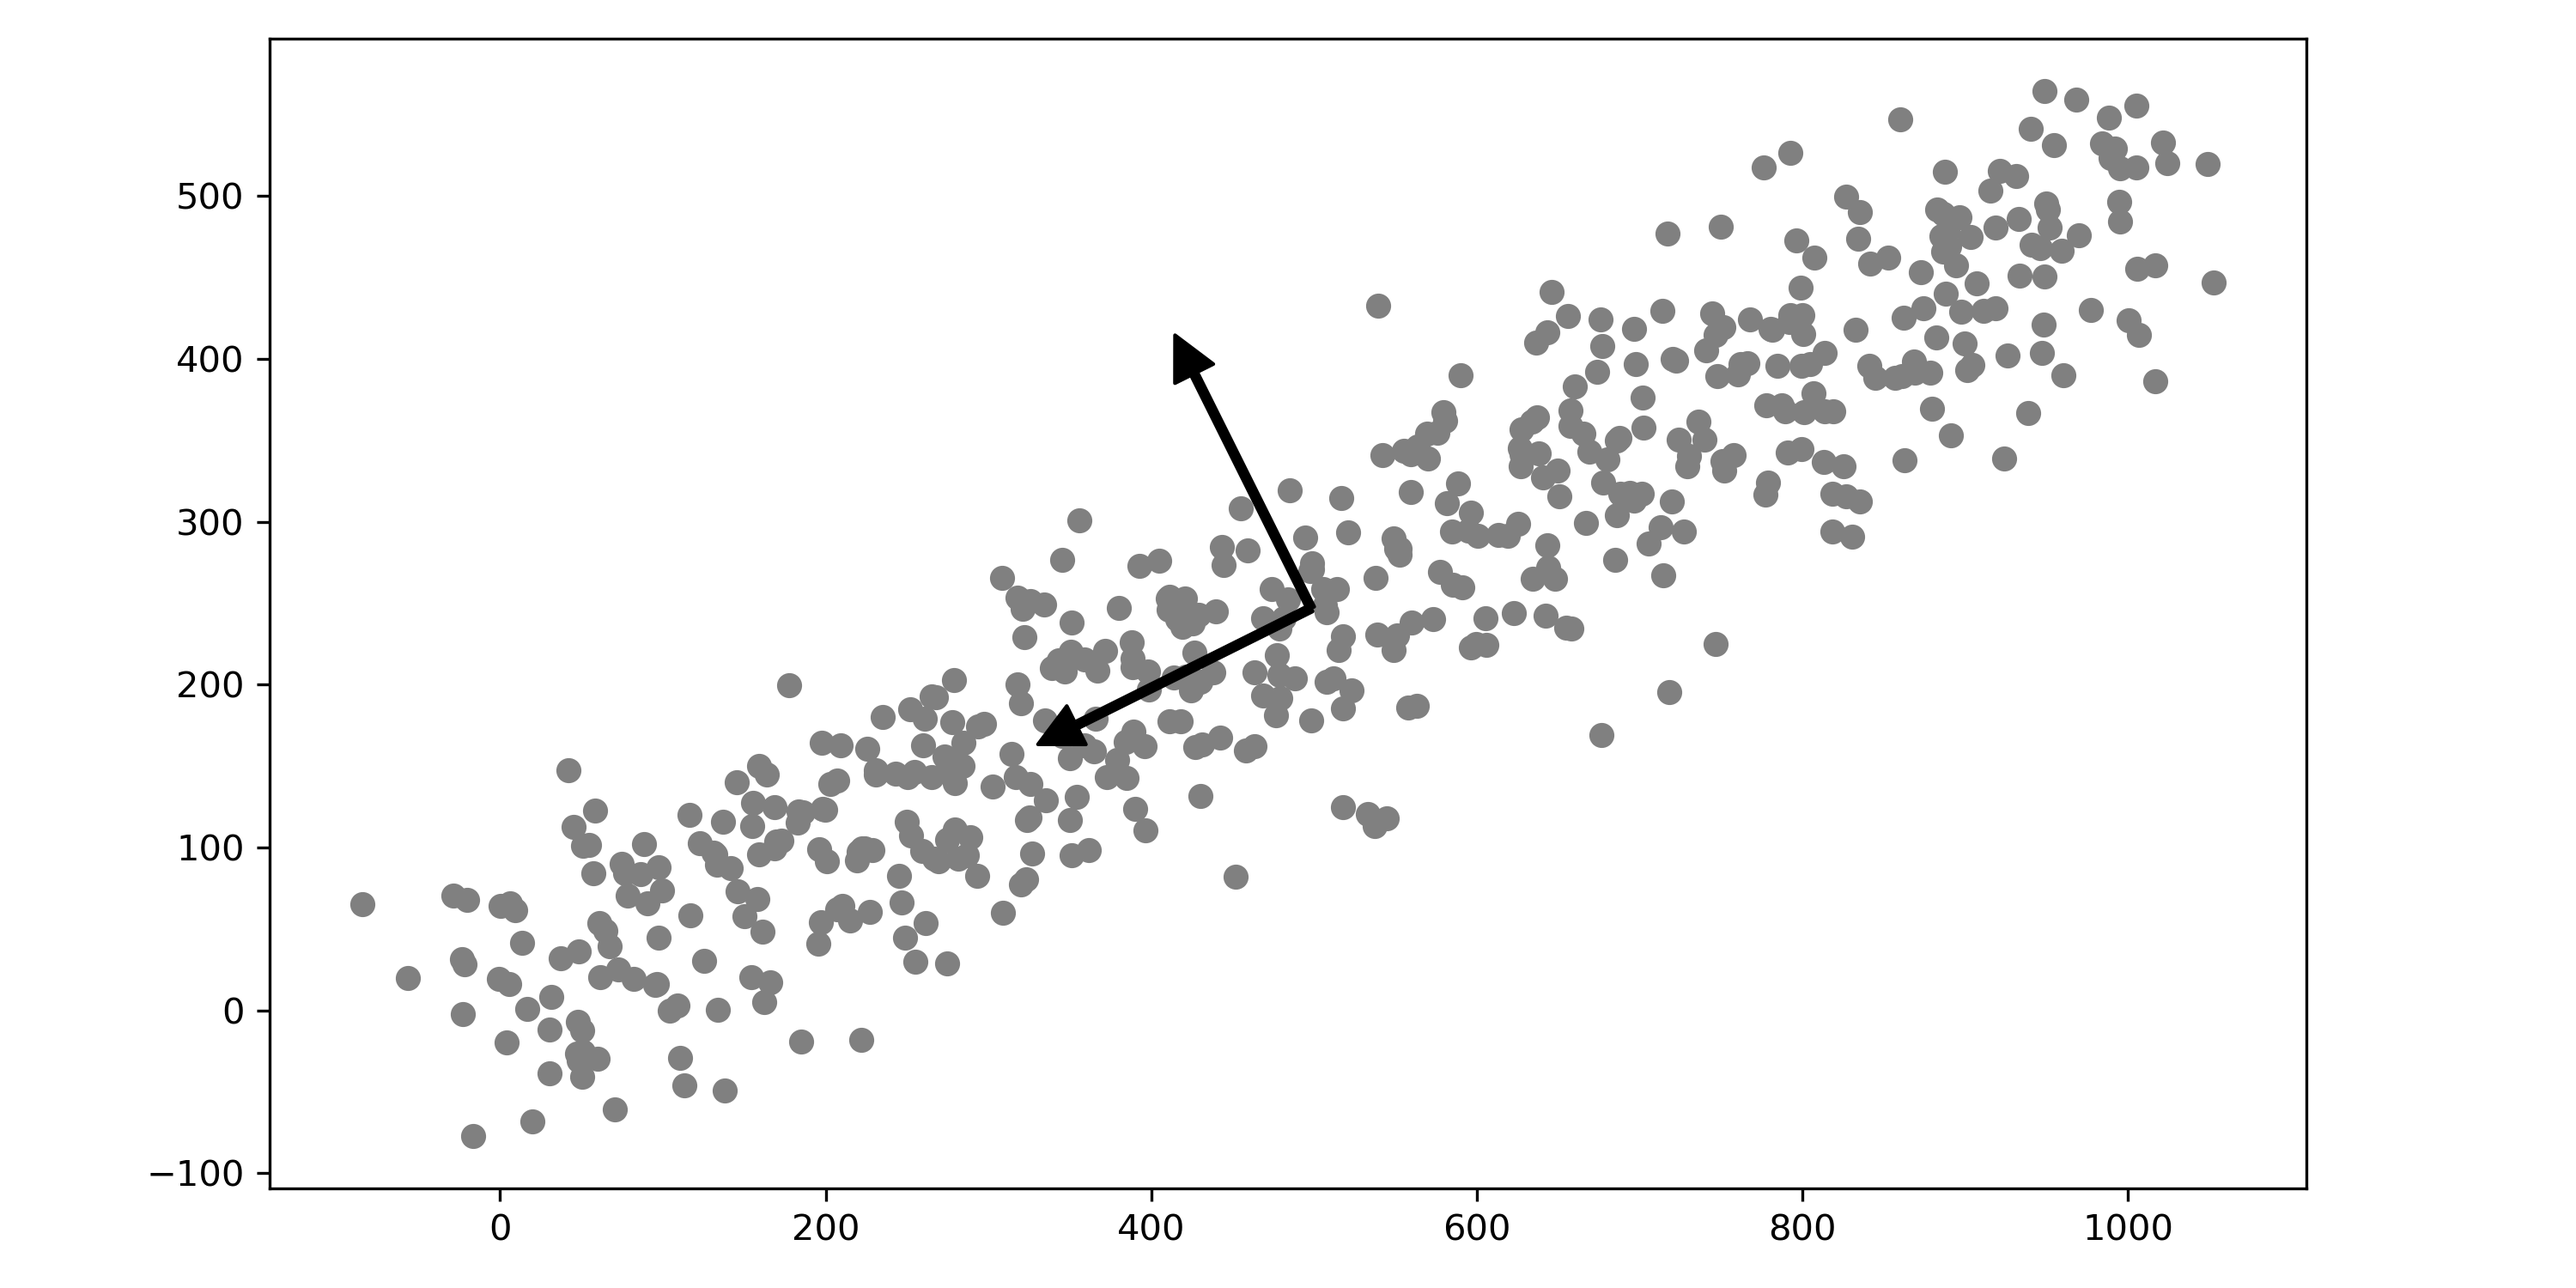
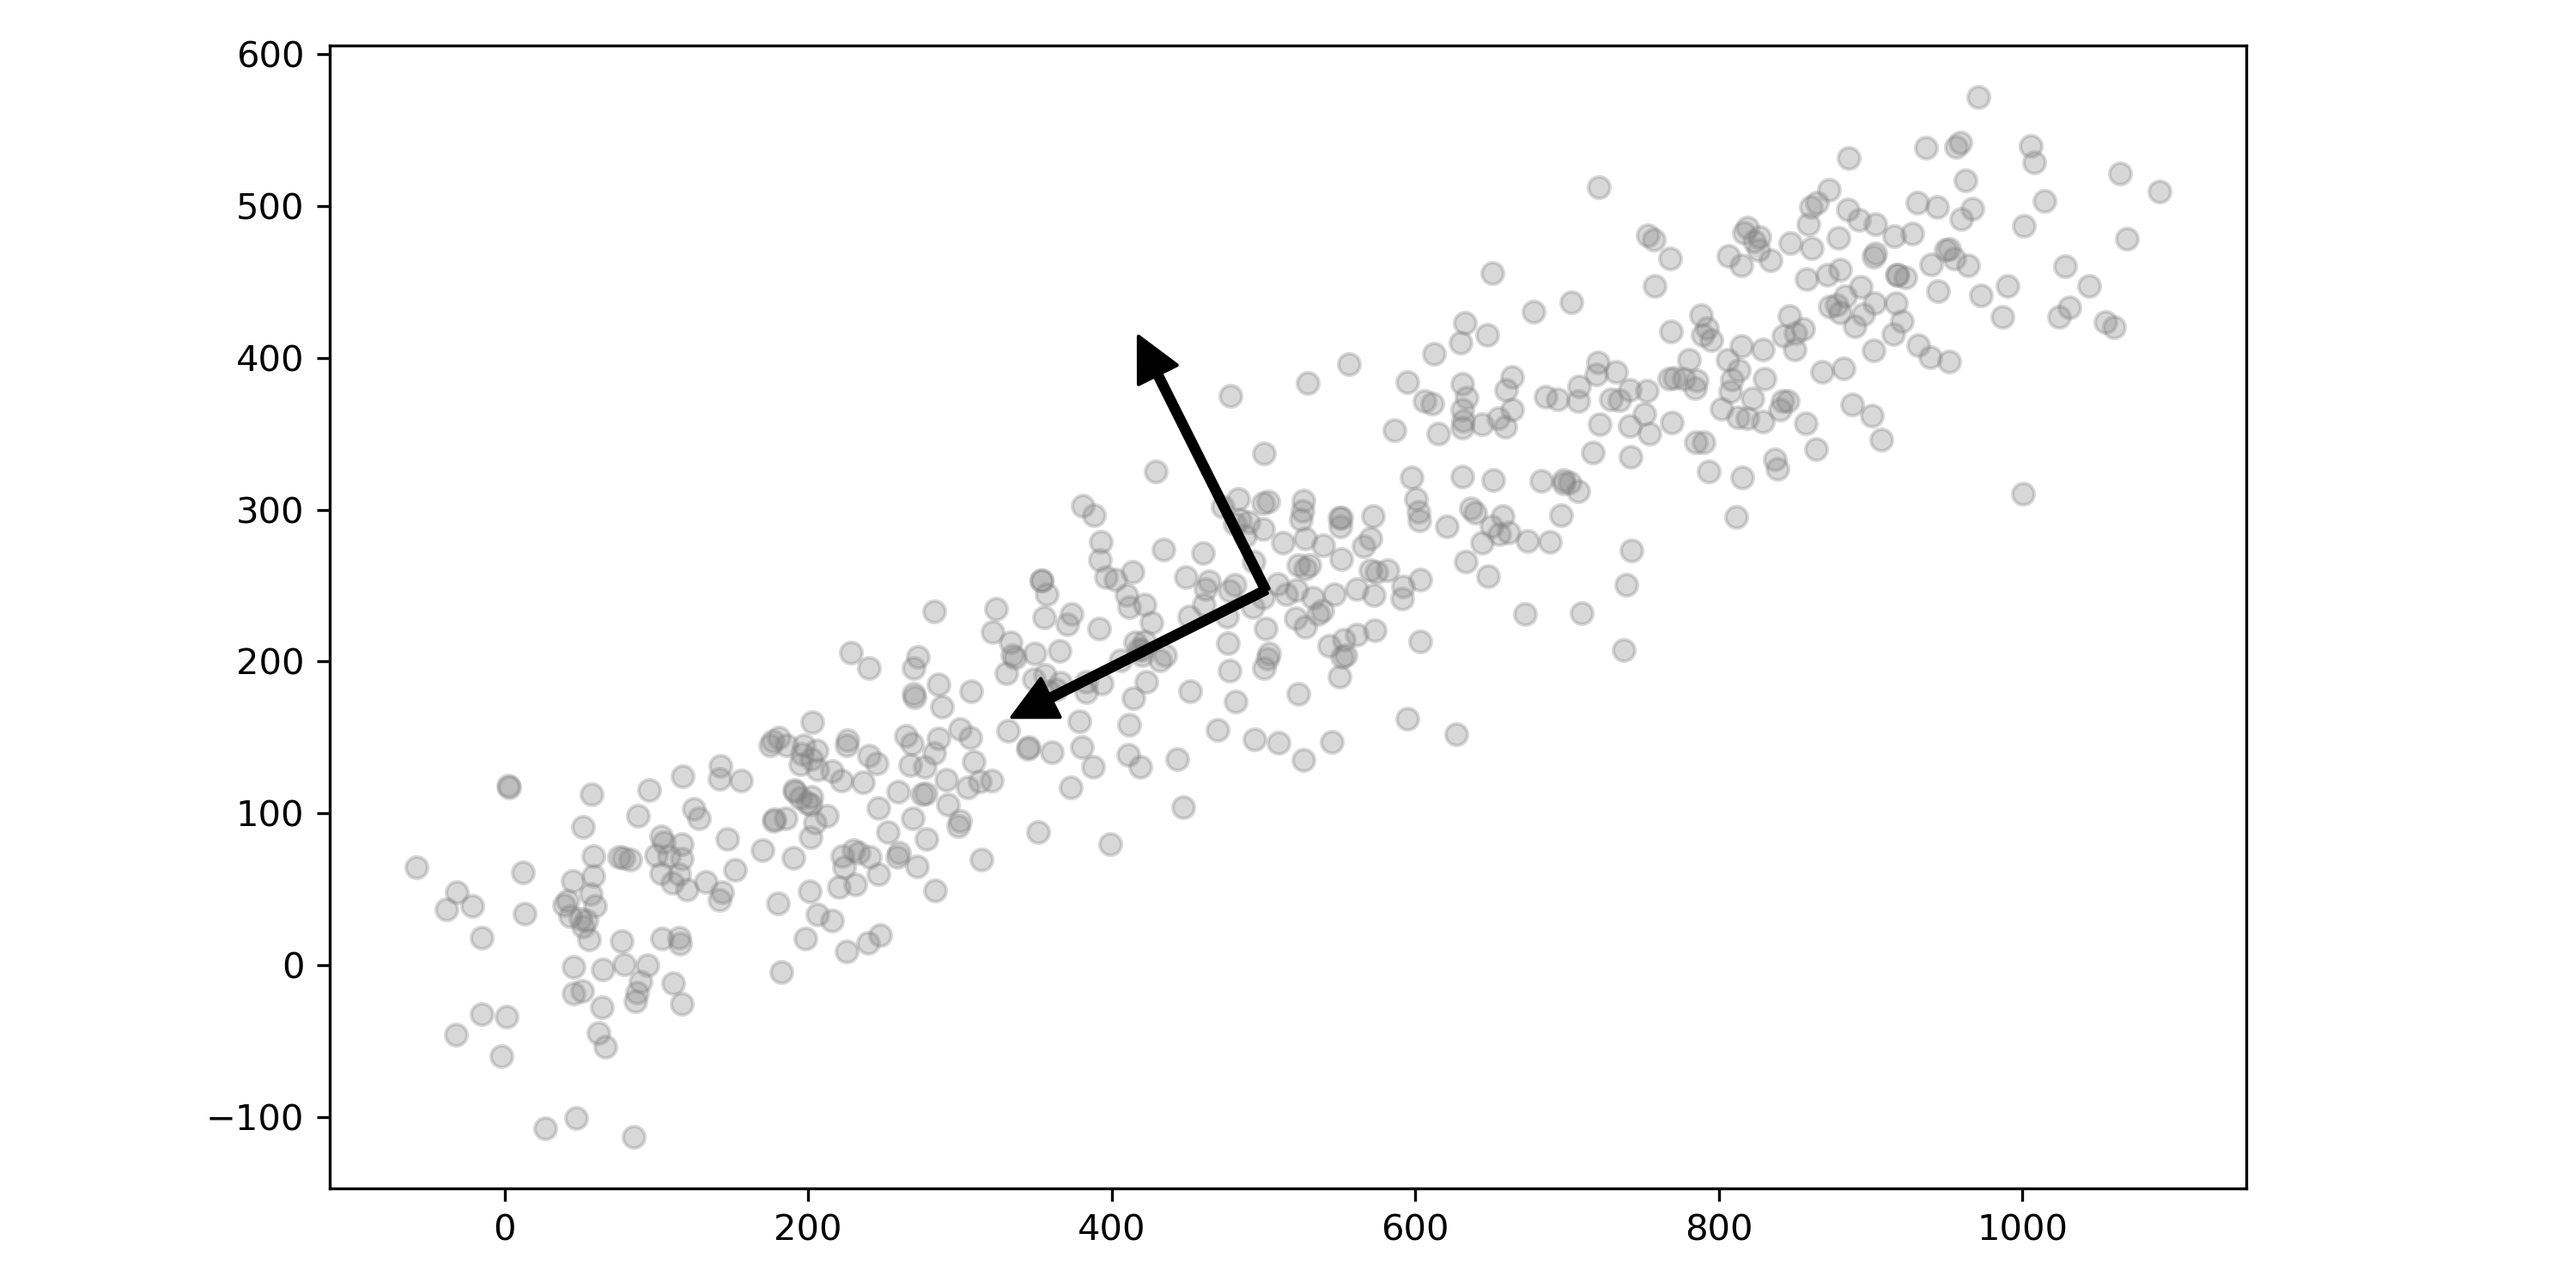
minor updates

diff --git a/content/posts/ml/pcavisualized.md b/content/posts/ml/pcavisualized.md
@@ -160,25 +160,26 @@ data_rescaled = scaler.fit_transform(X)
 
 pca = PCA().fit(data_rescaled)
 
-plt.rcParams["figure.figsize"] = (12,6)
+plt.rcParams["figure.figsize"] = (8,5)
 
 fig, ax = plt.subplots()
 xi = np.arange(1, 14, step=1)
 y = np.cumsum(pca.explained_variance_ratio_)
 
 plt.ylim(0.0,1.1)
-plt.plot(xi, y, marker='o', linestyle='-', color='tab:blue')
+plt.plot(xi, y, marker='o', linestyle='-', color='black')
 
 plt.xlabel('Number of Components')
-plt.xticks(np.arange(1, 14, step=1))
+plt.xticks(np.arange(1, 14, step=1)) 
 plt.ylabel('Cumulative variance (%)')
 plt.title('The number of components needed to explain variance')
 
-plt.axhline(y=0.95, color='tab:red', linestyle='--')
+plt.axhline(y=0.95, color='grey', linestyle='--')
 plt.text(1.1, 1, '95% cut-off threshold', color = 'black', fontsize=16)
 
 ax.grid(axis='x')
 plt.tight_layout()
+plt.savefig('pcavisualize_1.png', dpi=300)
 plt.show()
 ```
 ![Explained Variance]({static}../../images/posts/pcavisualize_1.png)  
@@ -221,18 +222,19 @@ for row in range(rows):
             ax = sns.scatterplot(x=X_scaled[:, 0], 
                                  y=X_scaled[:, 1], 
                                  ax=axes[row, col], 
-                                 palette='tab20', 
+                                 color='grey', 
                                  alpha=.3)
             ax = sns.scatterplot(x=X_new[:, 0], 
                                  y=X_new[:, 1], 
                                  ax=axes[row, col], 
-                                 palette='tab20')
+                                 color='black')
             ax.set_title(f'PCA Components: {comps}');
 
             comps += 1
         except:
             pass
 plt.tight_layout()
+plt.savefig('pcavisualize_2.png', dpi=300)
 ```
 
 ![PCA by Component]({static}../../images/posts/pcavisualize_2.png)  
